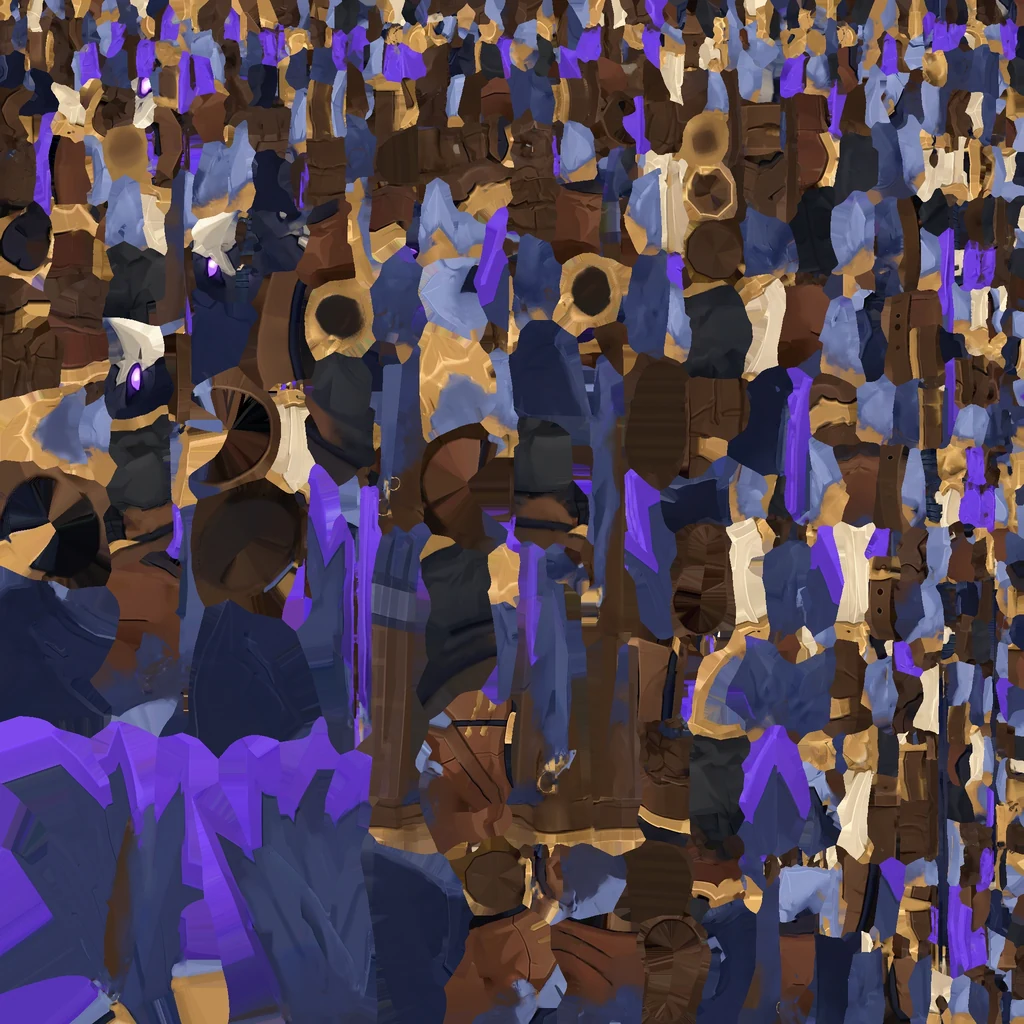
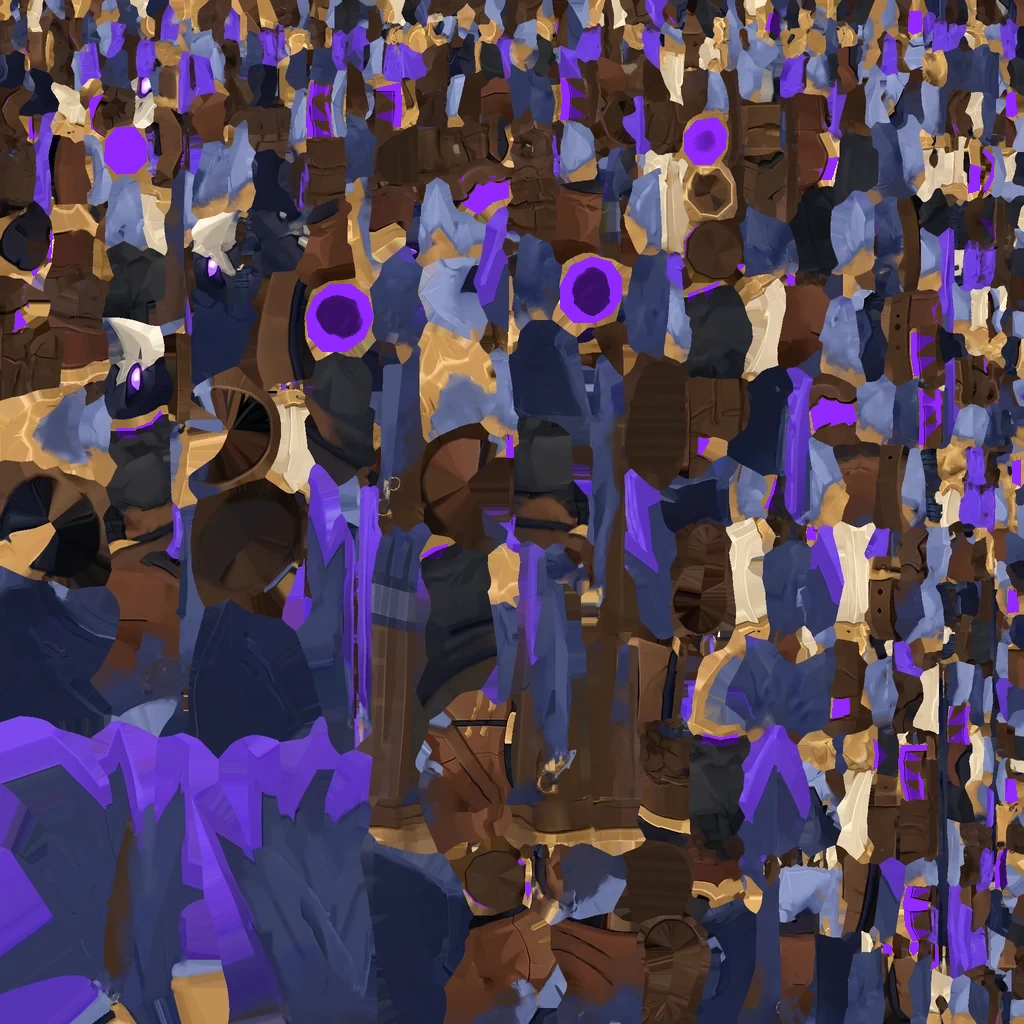
Облик: окантовка сапог и перчаток в цвет ткани у трёх героев; журнал
Claude-Session: https://claude.ai/code/session_01WYkWZ2eD3bf2riVMrJqUf4

diff --git a/docs/CHANGELOG.md b/docs/CHANGELOG.md
@@ -202,6 +202,9 @@
 | 18 | «ты проверил изменение облика раскрасок скинов персонажа меняется во всех режимах и локациях ? в жатве, в летописи, и т.п. ?» | 🔍 | Проверил в Chromium на сборке 71: деревня, катакомбы, Глубины, Цитадель, походы (Костяные пустоши, Фьорды), Жатва — облик, корона, нимб, аура, оружие и облик питомца есть везде. В Летописи облик не надевался (своя сцена `hwstage.js`): исправил — краски, модель, призрак, корона, нимб, аура, оружие, облик питомца; питомец из Meshy ждётся до боя, как мобы. Войдёт в следующую сборку |
 | 19 | «не тыкаются кнопки, выстави цена как везде тестовые» | 🔍 | У новых эффектов не было товаров в `platform.js` PRODUCTS: кнопка ₽ без цены и покупка падала. Добавил товары: следы 69 ₽, ауры и нимб 69 ₽, оружие 99 ₽, эффекты питомца 49 ₽ (`trail_*`, `aura_*`, `extra_*`, `weapon_*`, `petfx_*`). В демо покупка проходит (проверил: нимб купился). На Яндексе их ещё надо завести в каталоге консоли |
 | 20 | «купил питомцу эффект призрака и он не появился в этом облике в летописи» | 🔍 | В сборке 71 Летопись облик не показывала; исправлено (пункт 18), войдёт в следующую сборку |
+| 21 | «удали старые модельки из сборки последней» (старый маг появился после смены облика) | 🔍 | Убрал вторые модели классов (`warrior_vanguard`, `mage_archmage`) из игры и файлов: у каждого класса одна новая модель |
+| 22 | «спереди при перекраске нет элементов, давай добавим на сапоги и перчатки какие то оконтовки как на плаще такого же цвета во всех вариантах» | 🔍 | В текстурах трёх героев покрасил верх сапог и золотую кайму перчаток в цвет ткани: теперь они перекрашиваются вместе с плащом в любом облике. Проверил в лаборатории облика на 4 вариантах у каждого класса. У воина перчатки стальные, окантовка в основном на наколенниках и сапогах |
+| 23 | «и это не перенеслось тоже на летопись и жатву, ты проверь всех персонажей и все их эффекты» | 🔍 | Жатва в сборке 71 облик и эффекты показывает у всех трёх классов. Летопись — исправлено в пункте 18, проверено у воина, лучника, мага; войдёт в следующую сборку |
 **Проверено:** в Chromium все три героя с обликами, краской, второй моделью и призраком, окно «Облик», питомцы в лаборатории; ошибок нет. Покупка за рубли не подключена (лавку ведёт ветка площадок, событие `cosmeticBuy`). На iPhone не проверено.
 
 
